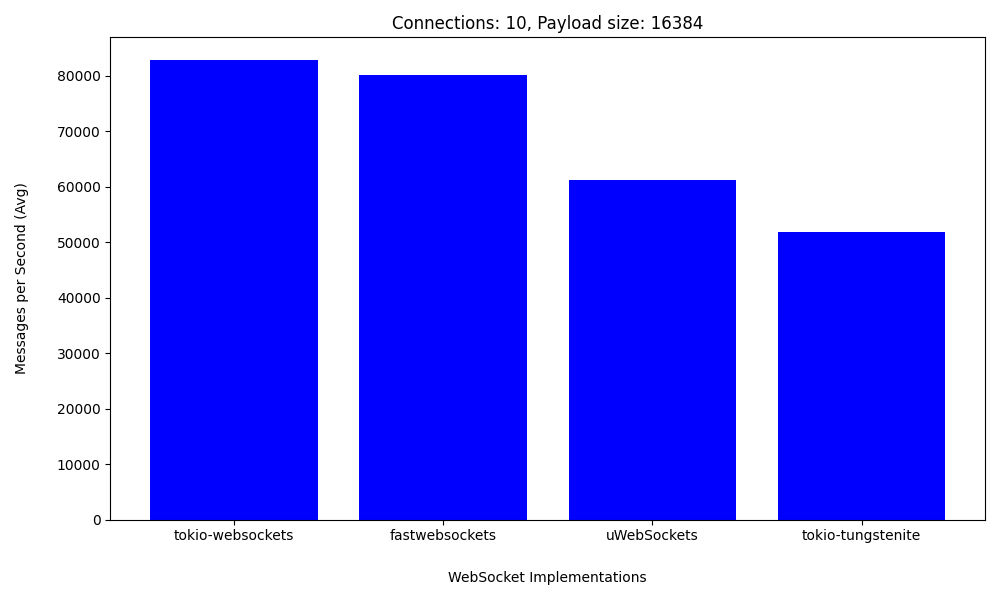
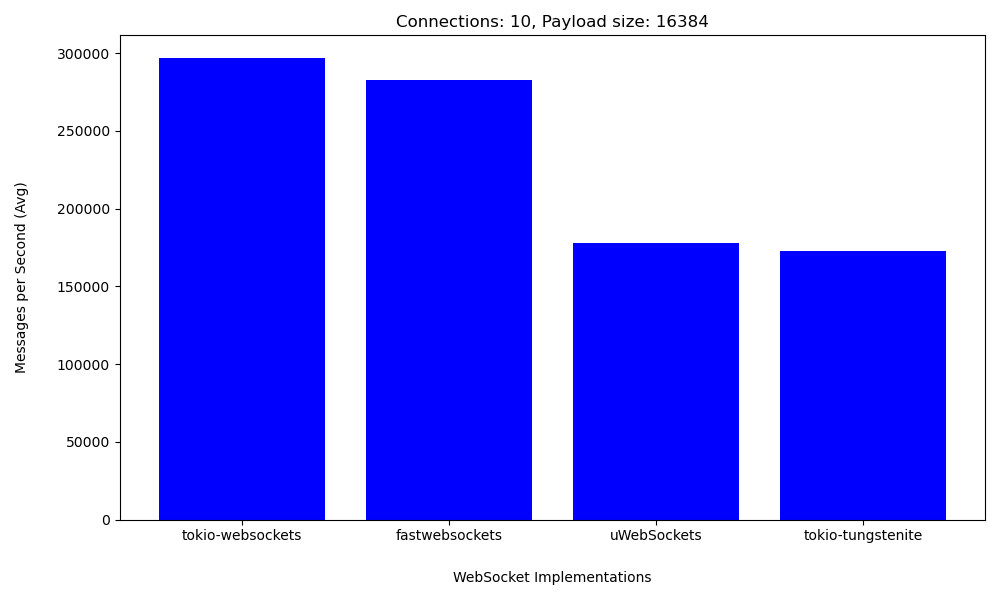
Update aarch64 benchmarks

diff --git a/benches/README.md b/benches/README.md
@@ -59,7 +59,7 @@ This target uses AVX2 to emulate AVX512 in hardware.
 
 </details>
 
-### Rockchip RK3588S2, Linux 6.1.48
+### Qualcomm Snapdragon X Elite, Linux 7.0-rc3
 
 This target uses NEON.
 
